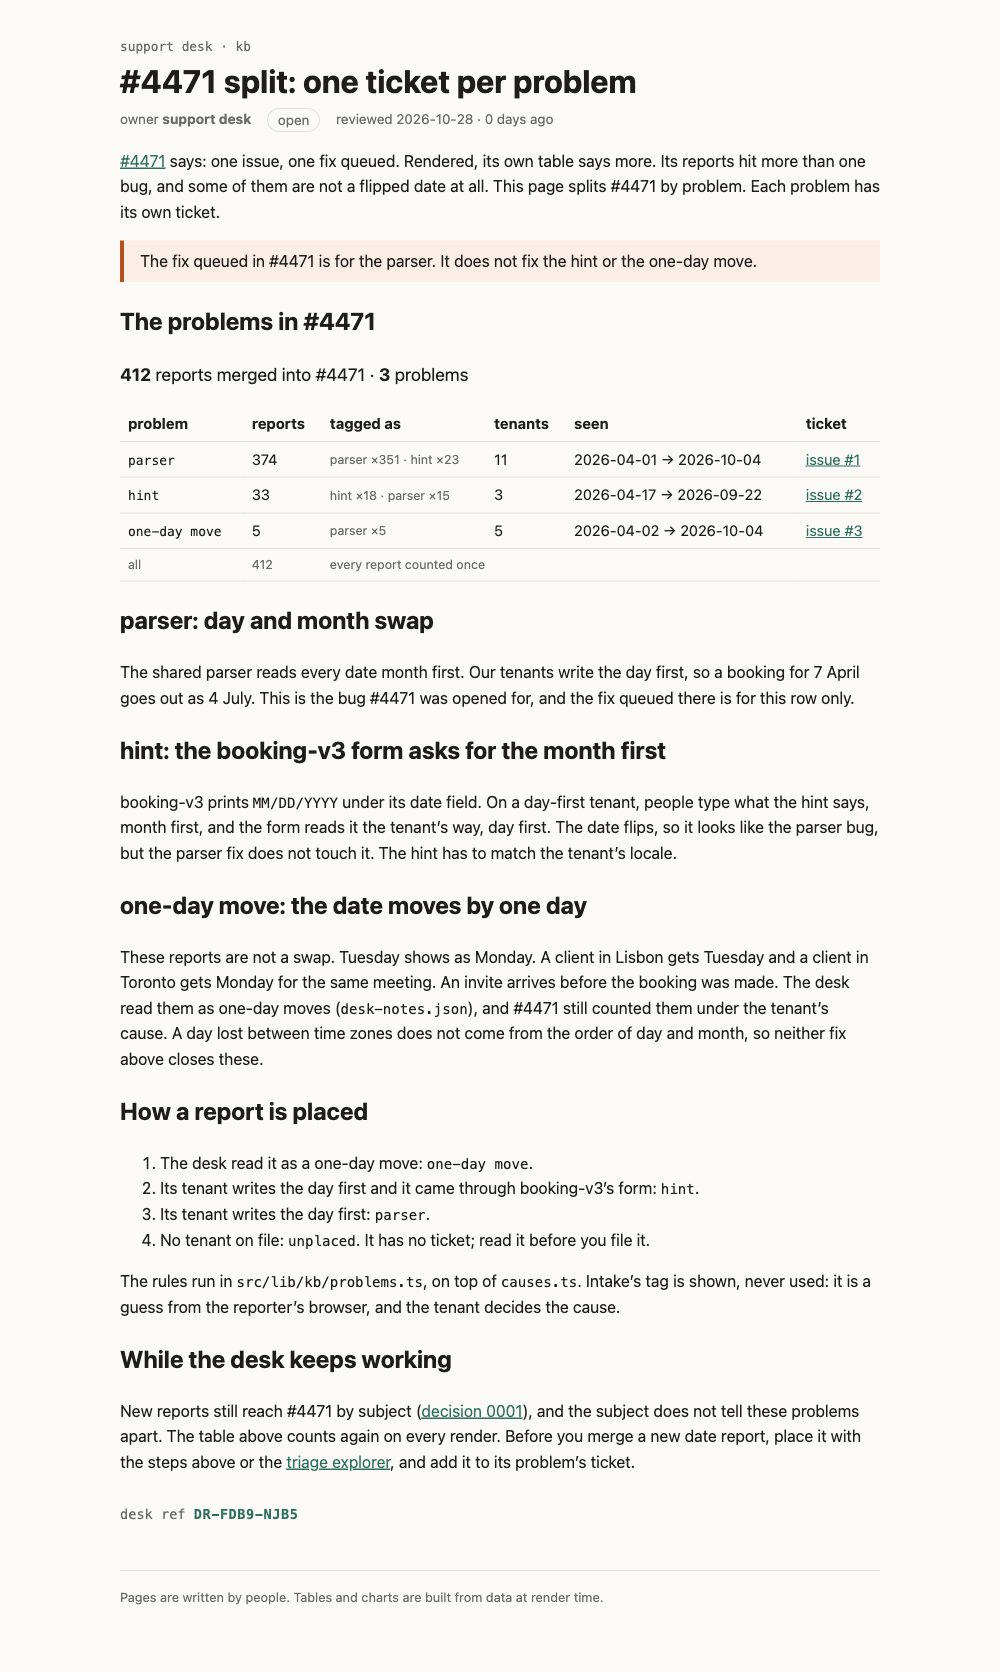
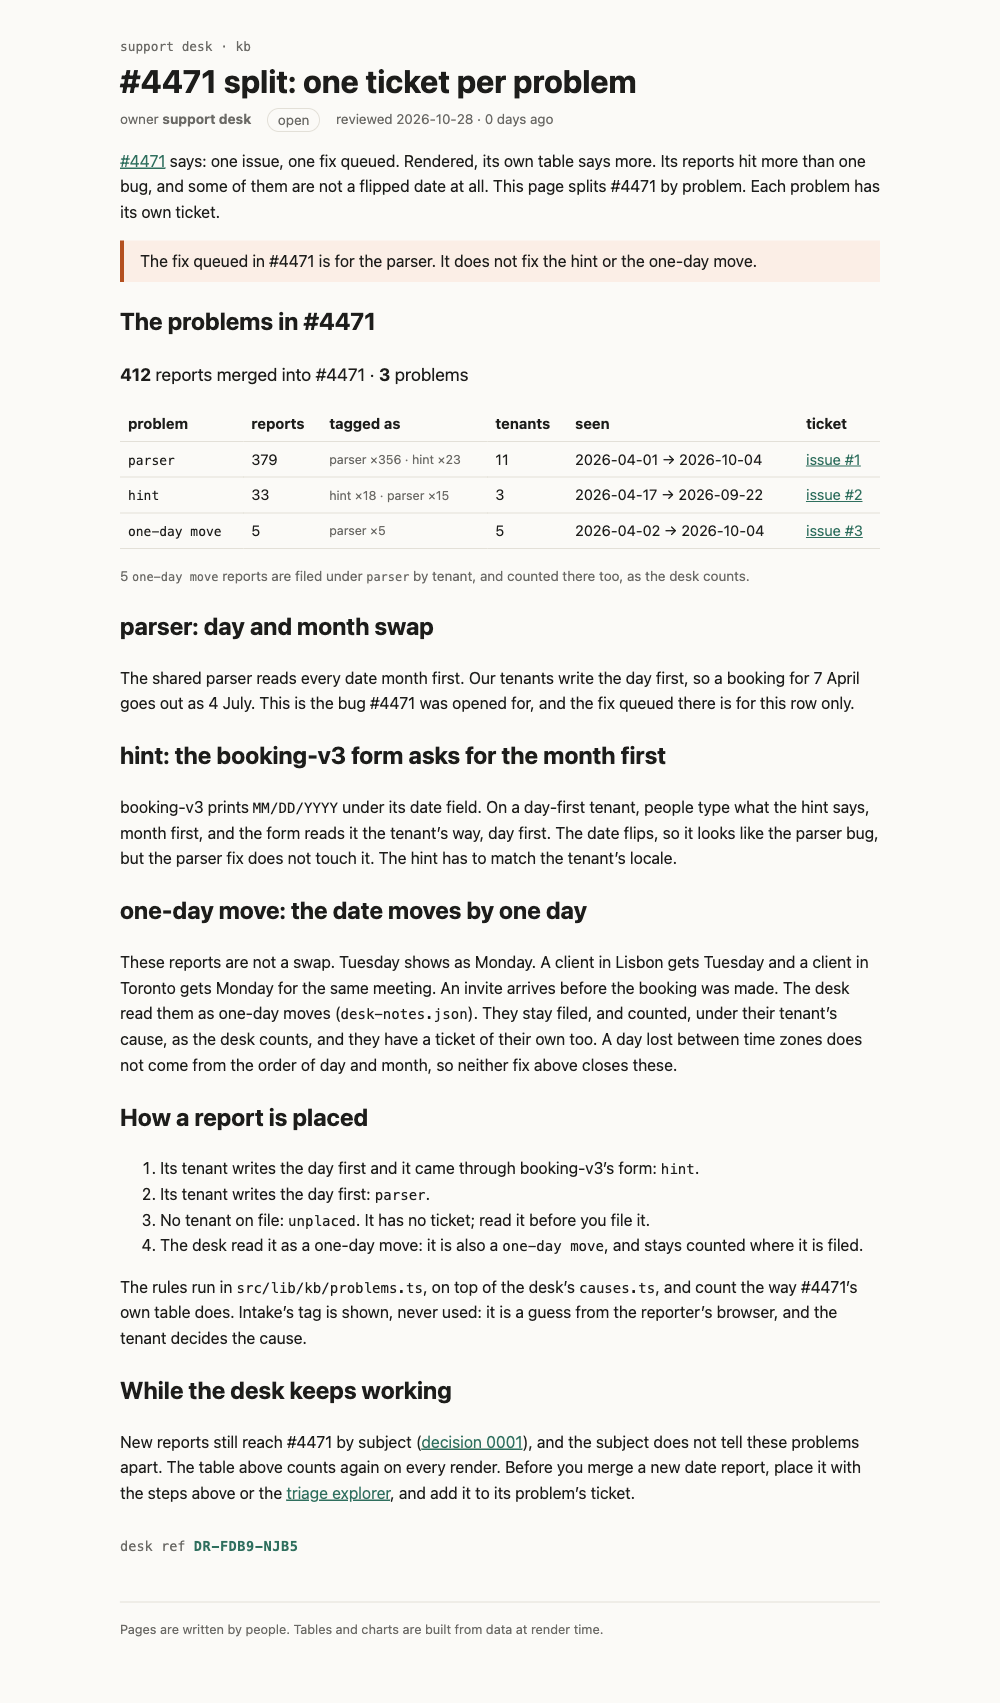
Count the #4471 problems the way the desk counts
The desk's own view (CauseTable, as exported) keeps the one-day moves counted under the cause they are filed under, and footnotes them. The split page now does the same: parser 379, hint 33, one-day move 5.

Changed region(s): [[0.124, 0.0311, 0.868, 0.9641], [0.806, 0.2488, 0.868, 0.3421], [0.465, 0.933, 0.589, 0.9641]]

diff --git a/rendered/kb/incidents/4471/problems.html b/rendered/kb/incidents/4471/problems.html
@@ -24,23 +24,26 @@
 </style>
 		<style>aside.svelte-17bri61{border-left:4px solid var(--accent);padding:.5rem 1rem;margin:1rem 0;background:var(--note-bg)}aside.warn.svelte-17bri61{border-color:var(--warn);background:var(--warn-bg)}
 </style>
-		<style>.sum.svelte-1op6c6{font-size:1.1rem}.tags.svelte-1op6c6{color:var(--muted);font-size:.85em}tfoot.svelte-1op6c6 td:where(.svelte-1op6c6){color:var(--muted);font-size:.85em}.unfiled.svelte-1op6c6 td:where(.svelte-1op6c6){background:var(--warn-bg)}.unfiled.svelte-1op6c6 td:where(.svelte-1op6c6):last-child{color:var(--warn);font-weight:600}.stamp.svelte-1280m42{margin:2rem 0 0;font:.85rem var(--mono);color:var(--muted)}.stamp.svelte-1280m42 b:where(.svelte-1280m42){color:var(--accent);letter-spacing:.04em}.missing.svelte-1280m42{color:var(--warn)}
+		<style>.sum.svelte-1op6c6{font-size:1.1rem}.tags.svelte-1op6c6,.note.svelte-1op6c6{color:var(--muted);font-size:.85em}.unfiled.svelte-1op6c6 td:where(.svelte-1op6c6){background:var(--warn-bg)}.unfiled.svelte-1op6c6 td:where(.svelte-1op6c6):last-child{color:var(--warn);font-weight:600}.stamp.svelte-1280m42{margin:2rem 0 0;font:.85rem var(--mono);color:var(--muted)}.stamp.svelte-1280m42 b:where(.svelte-1280m42){color:var(--accent);letter-spacing:.04em}.missing.svelte-1280m42{color:var(--warn)}
 </style>
   </head>
   <body data-sveltekit-preload-data="hover">
     <div style="display: contents"><!--[--><!--[0--><!--[--><!--[--><div class="kb svelte-e2jw2j"><header><a class="crumb svelte-e2jw2j" href="/kb">support desk · kb</a> <h1 class="svelte-e2jw2j">#4471 split: one ticket per problem</h1> <p class="meta svelte-e2jw2j"><span>owner <b>support desk</b></span> <span class="status open svelte-e2jw2j">open</span> <span class="svelte-e2jw2j">reviewed 2026-10-28 · 0 days ago</span></p></header> <!--[-1--><!--]--> <main><p><a href="/kb/incidents/4471">#4471</a> says: one issue, one fix queued. Rendered, its own table says more.
 Its reports hit more than one bug, and some of them are not a flipped date at all. This page
-splits #4471 by problem. Each problem has its own ticket.</p> <aside class="warn svelte-17bri61"><!---->The fix queued in #4471 is for the parser. It does not fix the hint or the one-day move.<!----></aside><!----> <h2>The problems in #4471</h2> <p class="sum svelte-1op6c6"><strong>412</strong> reports merged into #4471 · <strong>3</strong> problems</p> <table><thead><tr><th>problem</th><th>reports</th><th>tagged as</th><th>tenants</th><th>seen</th><th>ticket</th></tr></thead><tbody><!--[--><tr class="svelte-1op6c6"><td class="svelte-1op6c6"><code>parser</code></td><td class="svelte-1op6c6">374</td><td class="tags svelte-1op6c6">parser ×351 · hint ×23</td><td class="svelte-1op6c6">11</td><td class="svelte-1op6c6">2026-04-01 → 2026-10-04</td><td class="svelte-1op6c6"><!--[0--><a href="https://github.com/piotrsmoczyk-allegro/mega-dev-challenge/issues/1">issue #1</a><!--]--></td></tr><tr class="svelte-1op6c6"><td class="svelte-1op6c6"><code>hint</code></td><td class="svelte-1op6c6">33</td><td class="tags svelte-1op6c6">hint ×18 · parser ×15</td><td class="svelte-1op6c6">3</td><td class="svelte-1op6c6">2026-04-17 → 2026-09-22</td><td class="svelte-1op6c6"><!--[0--><a href="https://github.com/piotrsmoczyk-allegro/mega-dev-challenge/issues/2">issue #2</a><!--]--></td></tr><tr class="svelte-1op6c6"><td class="svelte-1op6c6"><code>one-day move</code></td><td class="svelte-1op6c6">5</td><td class="tags svelte-1op6c6">parser ×5</td><td class="svelte-1op6c6">5</td><td class="svelte-1op6c6">2026-04-02 → 2026-10-04</td><td class="svelte-1op6c6"><!--[0--><a href="https://github.com/piotrsmoczyk-allegro/mega-dev-challenge/issues/3">issue #3</a><!--]--></td></tr><!--]--></tbody><tfoot class="svelte-1op6c6"><tr><td class="svelte-1op6c6">all</td><td class="svelte-1op6c6">412</td><td colspan="4" class="svelte-1op6c6">every report counted once</td></tr></tfoot></table><!----> <h2>parser: day and month swap</h2> <p>The shared parser reads every date month first. Our tenants write the day first, so a booking for
+splits #4471 by problem. Each problem has its own ticket.</p> <aside class="warn svelte-17bri61"><!---->The fix queued in #4471 is for the parser. It does not fix the hint or the one-day move.<!----></aside><!----> <h2>The problems in #4471</h2> <p class="sum svelte-1op6c6"><strong>412</strong> reports merged into #4471 · <strong>3</strong> problems</p> <table><thead><tr><th>problem</th><th>reports</th><th>tagged as</th><th>tenants</th><th>seen</th><th>ticket</th></tr></thead><tbody><!--[--><tr class="svelte-1op6c6"><td class="svelte-1op6c6"><code>parser</code></td><td class="svelte-1op6c6">379</td><td class="tags svelte-1op6c6">parser ×356 · hint ×23</td><td class="svelte-1op6c6">11</td><td class="svelte-1op6c6">2026-04-01 → 2026-10-04</td><td class="svelte-1op6c6"><!--[0--><a href="https://github.com/piotrsmoczyk-allegro/mega-dev-challenge/issues/1">issue #1</a><!--]--></td></tr><tr class="svelte-1op6c6"><td class="svelte-1op6c6"><code>hint</code></td><td class="svelte-1op6c6">33</td><td class="tags svelte-1op6c6">hint ×18 · parser ×15</td><td class="svelte-1op6c6">3</td><td class="svelte-1op6c6">2026-04-17 → 2026-09-22</td><td class="svelte-1op6c6"><!--[0--><a href="https://github.com/piotrsmoczyk-allegro/mega-dev-challenge/issues/2">issue #2</a><!--]--></td></tr><tr class="svelte-1op6c6"><td class="svelte-1op6c6"><code>one-day move</code></td><td class="svelte-1op6c6">5</td><td class="tags svelte-1op6c6">parser ×5</td><td class="svelte-1op6c6">5</td><td class="svelte-1op6c6">2026-04-02 → 2026-10-04</td><td class="svelte-1op6c6"><!--[0--><a href="https://github.com/piotrsmoczyk-allegro/mega-dev-challenge/issues/3">issue #3</a><!--]--></td></tr><!--]--></tbody></table> <!--[--><!--[-1--><!--]--><!--[-1--><!--]--><!--[0--><p class="note svelte-1op6c6">5 <code>one-day move</code> reports are filed under <code>parser</code> by tenant,
+      and counted there too, as the desk counts.</p><!--]--><!--]--><!----> <h2>parser: day and month swap</h2> <p>The shared parser reads every date month first. Our tenants write the day first, so a booking for
 7 April goes out as 4 July. This is the bug #4471 was opened for, and the fix queued there is for
 this row only.</p> <h2>hint: the booking-v3 form asks for the month first</h2> <p>booking-v3 prints <code>MM/DD/YYYY</code> under its date field. On a day-first tenant, people type what the
 hint says, month first, and the form reads it the tenant’s way, day first. The date flips, so it
 looks like the parser bug, but the parser fix does not touch it. The hint has to match the tenant’s
 locale.</p> <h2>one-day move: the date moves by one day</h2> <p>These reports are not a swap. Tuesday shows as Monday. A client in Lisbon gets Tuesday and a
 client in Toronto gets Monday for the same meeting. An invite arrives before the booking was made.
-The desk read them as one-day moves (<code>desk-notes.json</code>), and #4471 still counted them under the
-tenant’s cause. A day lost between time zones does not come from the order of day and month, so
-neither fix above closes these.</p> <h2>How a report is placed</h2> <ol><li>The desk read it as a one-day move: <code>one-day move</code>.</li> <li>Its tenant writes the day first and it came through booking-v3’s form: <code>hint</code>.</li> <li>Its tenant writes the day first: <code>parser</code>.</li> <li>No tenant on file: <code>unplaced</code>. It has no ticket; read it before you file it.</li></ol> <p>The rules run in <code>src/lib/kb/problems.ts</code>, on top of <code>causes.ts</code>. Intake’s tag is shown, never
-used: it is a guess from the reporter’s browser, and the tenant decides the cause.</p> <h2>While the desk keeps working</h2> <p>New reports still reach #4471 by subject (<a href="/kb/decisions/0001-dedupe-by-subject">decision 0001</a>),
+The desk read them as one-day moves (<code>desk-notes.json</code>). They stay filed, and counted, under their
+tenant’s cause, as the desk counts, and they have a ticket of their own too. A day lost between time
+zones does not come from the order of day and month, so neither fix above closes these.</p> <h2>How a report is placed</h2> <ol><li>Its tenant writes the day first and it came through booking-v3’s form: <code>hint</code>.</li> <li>Its tenant writes the day first: <code>parser</code>.</li> <li>No tenant on file: <code>unplaced</code>. It has no ticket; read it before you file it.</li> <li>The desk read it as a one-day move: it is also a <code>one-day move</code>, and stays counted where it is
+filed.</li></ol> <p>The rules run in <code>src/lib/kb/problems.ts</code>, on top of the desk’s <code>causes.ts</code>, and count the way
+#4471’s own table does. Intake’s tag is shown, never used: it is a guess from the reporter’s
+browser, and the tenant decides the cause.</p> <h2>While the desk keeps working</h2> <p>New reports still reach #4471 by subject (<a href="/kb/decisions/0001-dedupe-by-subject">decision 0001</a>),
 and the subject does not tell these problems apart. The table above counts again on every render.
 Before you merge a new date report, place it with the steps above or the <a href="/kb/triage/dedupe">triage explorer</a>, and add it to its problem’s ticket.</p> <!--[0--><p class="stamp svelte-1280m42">desk ref <b class="svelte-1280m42">DR-FDB9-NJB5</b></p><!--]--><!----><!----></main> <footer class="svelte-e2jw2j">Pages are written by people. Tables and charts are built from data at render time.</footer></div><!--]--><!----><!--]--><!--]--> <!--[-1--><!--]--><!--]-->
 			

diff --git a/src/lib/kb/problems.ts b/src/lib/kb/problems.ts
@@ -1,17 +1,11 @@
-// Which problem each report in a merged ticket is. causes.ts says which bug a tenant's dates hit;
-// the desk's reading (desk-notes.json) says when a report is not a flipped date at all.
-import { causeOf, type Cause, type Report, type Tenant } from '#lib/kb/causes';
+// The problems in a merged ticket, counted the way the desk counts (CauseTable.svelte): a report
+// counts under the cause it is filed under. Reports the desk read as a one-day move
+// (desk-notes.json) stay counted there, and also make up a problem of their own.
+import { groupByCause, type CauseGroup, type Report, type Tenant } from '#lib/kb/causes';
 
-// `one-day move`: the date moved by one day, it did not flip. Whatever the tenant's cause says,
-// the parser and the hint cannot do that, so these reports are their own problem.
-export type Problem = Cause | 'one-day move' | 'unplaced';
+export type Problem = CauseGroup['cause'] | 'one-day move';
 
-export function problemOf(r: Report, t: Tenant | undefined, oneDayMove: readonly string[]): Problem {
-  if (oneDayMove.includes(r.id)) return 'one-day move';
-  return causeOf(r, t) ?? 'unplaced';
-}
-
-export type ProblemGroup = {
+export type ProblemRow = {
   problem: Problem;
   reports: Report[];
   // What intake tagged these reports as: tag → count.
@@ -19,29 +13,32 @@ export type ProblemGroup = {
   tenants: number;
   firstSeen: string;
   lastSeen: string;
+  // Causes these reports are filed, and counted, under. Empty for a cause's own row.
+  filedUnder: Problem[];
 };
 
-export function groupByProblem(
+function row(problem: Problem, rs: Report[], filedUnder: Problem[] = []): ProblemRow {
+  const days = rs.map((r) => r.receivedAt.slice(0, 10)).sort();
+  return {
+    problem,
+    reports: rs,
+    taggedAs: rs.reduce<Record<string, number>>((n, r) => ({ ...n, [r.meta.intakeTag]: (n[r.meta.intakeTag] ?? 0) + 1 }), {}),
+    tenants: new Set(rs.map((r) => r.tenant)).size,
+    firstSeen: days[0],
+    lastSeen: days[days.length - 1],
+    filedUnder,
+  };
+}
+
+export function problemRows(
   reports: Report[],
   tenantOf: (r: Report) => Tenant | undefined,
   oneDayMove: readonly string[],
-): ProblemGroup[] {
-  const byProblem = new Map<Problem, Report[]>();
-  for (const r of reports) {
-    const problem = problemOf(r, tenantOf(r), oneDayMove);
-    byProblem.set(problem, [...(byProblem.get(problem) ?? []), r]);
-  }
-  return [...byProblem.entries()]
-    .map(([problem, rs]) => {
-      const days = rs.map((r) => r.receivedAt.slice(0, 10)).sort();
-      return {
-        problem,
-        reports: rs,
-        taggedAs: rs.reduce<Record<string, number>>((n, r) => ({ ...n, [r.meta.intakeTag]: (n[r.meta.intakeTag] ?? 0) + 1 }), {}),
-        tenants: new Set(rs.map((r) => r.tenant)).size,
-        firstSeen: days[0],
-        lastSeen: days[days.length - 1],
-      };
-    })
-    .sort((a, b) => b.reports.length - a.reports.length);
+): ProblemRow[] {
+  const groups = groupByCause(reports, tenantOf);
+  const rows = groups.map((g) => row(g.cause, g.reports));
+  const movedIn = groups.filter((g) => g.reports.some((r) => oneDayMove.includes(r.id)));
+  const moved = movedIn.flatMap((g) => g.reports.filter((r) => oneDayMove.includes(r.id)));
+  if (moved.length) rows.push(row('one-day move', moved, movedIn.map((g) => g.cause)));
+  return rows;
 }

diff --git a/src/lib/kb/ProblemTable.svelte b/src/lib/kb/ProblemTable.svelte
@@ -2,15 +2,14 @@
   import reports from '#lib/data/reports-4471.json';
   import notes from '#lib/data/desk-notes.json';
   import { uniqueById, type Report } from '#lib/kb/causes';
-  import { groupByProblem } from '#lib/kb/problems';
+  import { problemRows } from '#lib/kb/problems';
   import { tenantOf } from '#lib/kb/locales';
 
   // `filed`: problem → URL of the ticket filed for it. A problem with no entry has no ticket yet.
   let { ticket, filed = {} }: { ticket: number; filed?: Record<string, string> } = $props();
 
   const merged = $derived(uniqueById(reports as Report[]).filter((r) => r.mergedInto === ticket));
-  const groups = $derived(groupByProblem(merged, tenantOf, notes.oneDayMove));
-  const counted = $derived(groups.reduce((n, g) => n + g.reports.length, 0));
+  const rows = $derived(problemRows(merged, tenantOf, notes.oneDayMove));
   const tags = (g: { taggedAs: Record<string, number> }) =>
     Object.entries(g.taggedAs)
       .sort((a, b) => b[1] - a[1])
@@ -21,8 +20,8 @@
 
 <p class="sum">
   <strong>{merged.length}</strong> reports merged into #{ticket} ·
-  <strong>{groups.length}</strong>
-  {groups.length === 1 ? 'problem' : 'problems'}
+  <strong>{rows.length}</strong>
+  {rows.length === 1 ? 'problem' : 'problems'}
 </p>
 
 <table>
@@ -30,7 +29,7 @@
     <tr><th>problem</th><th>reports</th><th>tagged as</th><th>tenants</th><th>seen</th><th>ticket</th></tr>
   </thead>
   <tbody>
-    {#each groups as g (g.problem)}
+    {#each rows as g (g.problem)}
       <tr class:unfiled={!filed[g.problem]}>
         <td><code>{g.problem}</code></td>
         <td>{g.reports.length}</td>
@@ -43,19 +42,21 @@
       </tr>
     {/each}
   </tbody>
-  <tfoot>
-    <tr>
-      <td>all</td>
-      <td>{counted}</td>
-      <td colspan="4">{counted === merged.length ? 'every report counted once' : `${merged.length - counted} reports not counted`}</td>
-    </tr>
-  </tfoot>
 </table>
+
+{#each rows as g (g.problem)}
+  {#if g.filedUnder.length}
+    <p class="note">
+      {g.reports.length} <code>{g.problem}</code> reports are filed under <code>{g.filedUnder.join(', ')}</code> by tenant,
+      and counted there too, as the desk counts.
+    </p>
+  {/if}
+{/each}
 
 <style>
   .sum { font-size: 1.1rem; }
   .tags { color: var(--muted); font-size: 0.85em; }
-  tfoot td { color: var(--muted); font-size: 0.85em; }
+  .note { color: var(--muted); font-size: 0.85em; }
   .unfiled td { background: var(--warn-bg); }
   .unfiled td:last-child { color: var(--warn); font-weight: 600; }
 </style>
